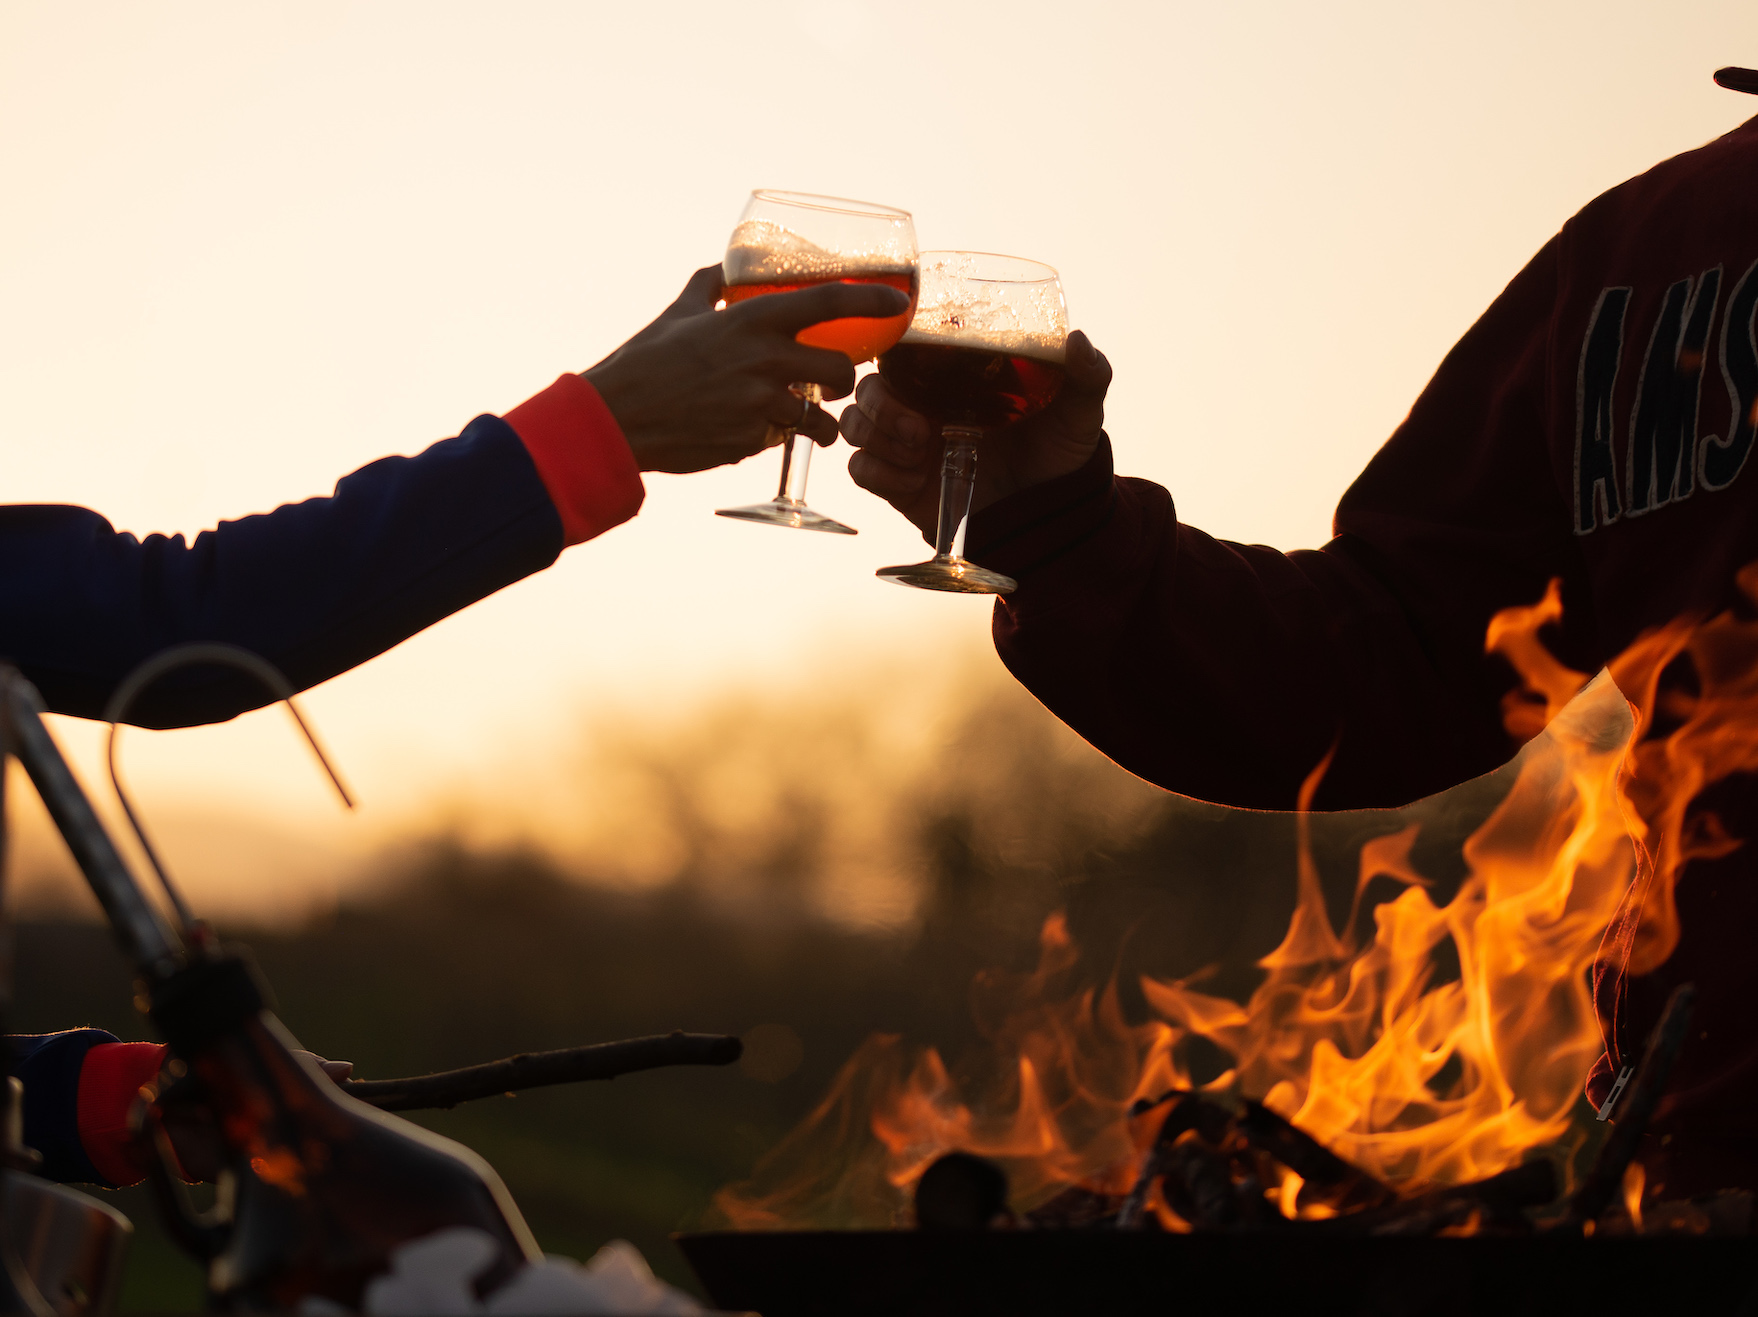
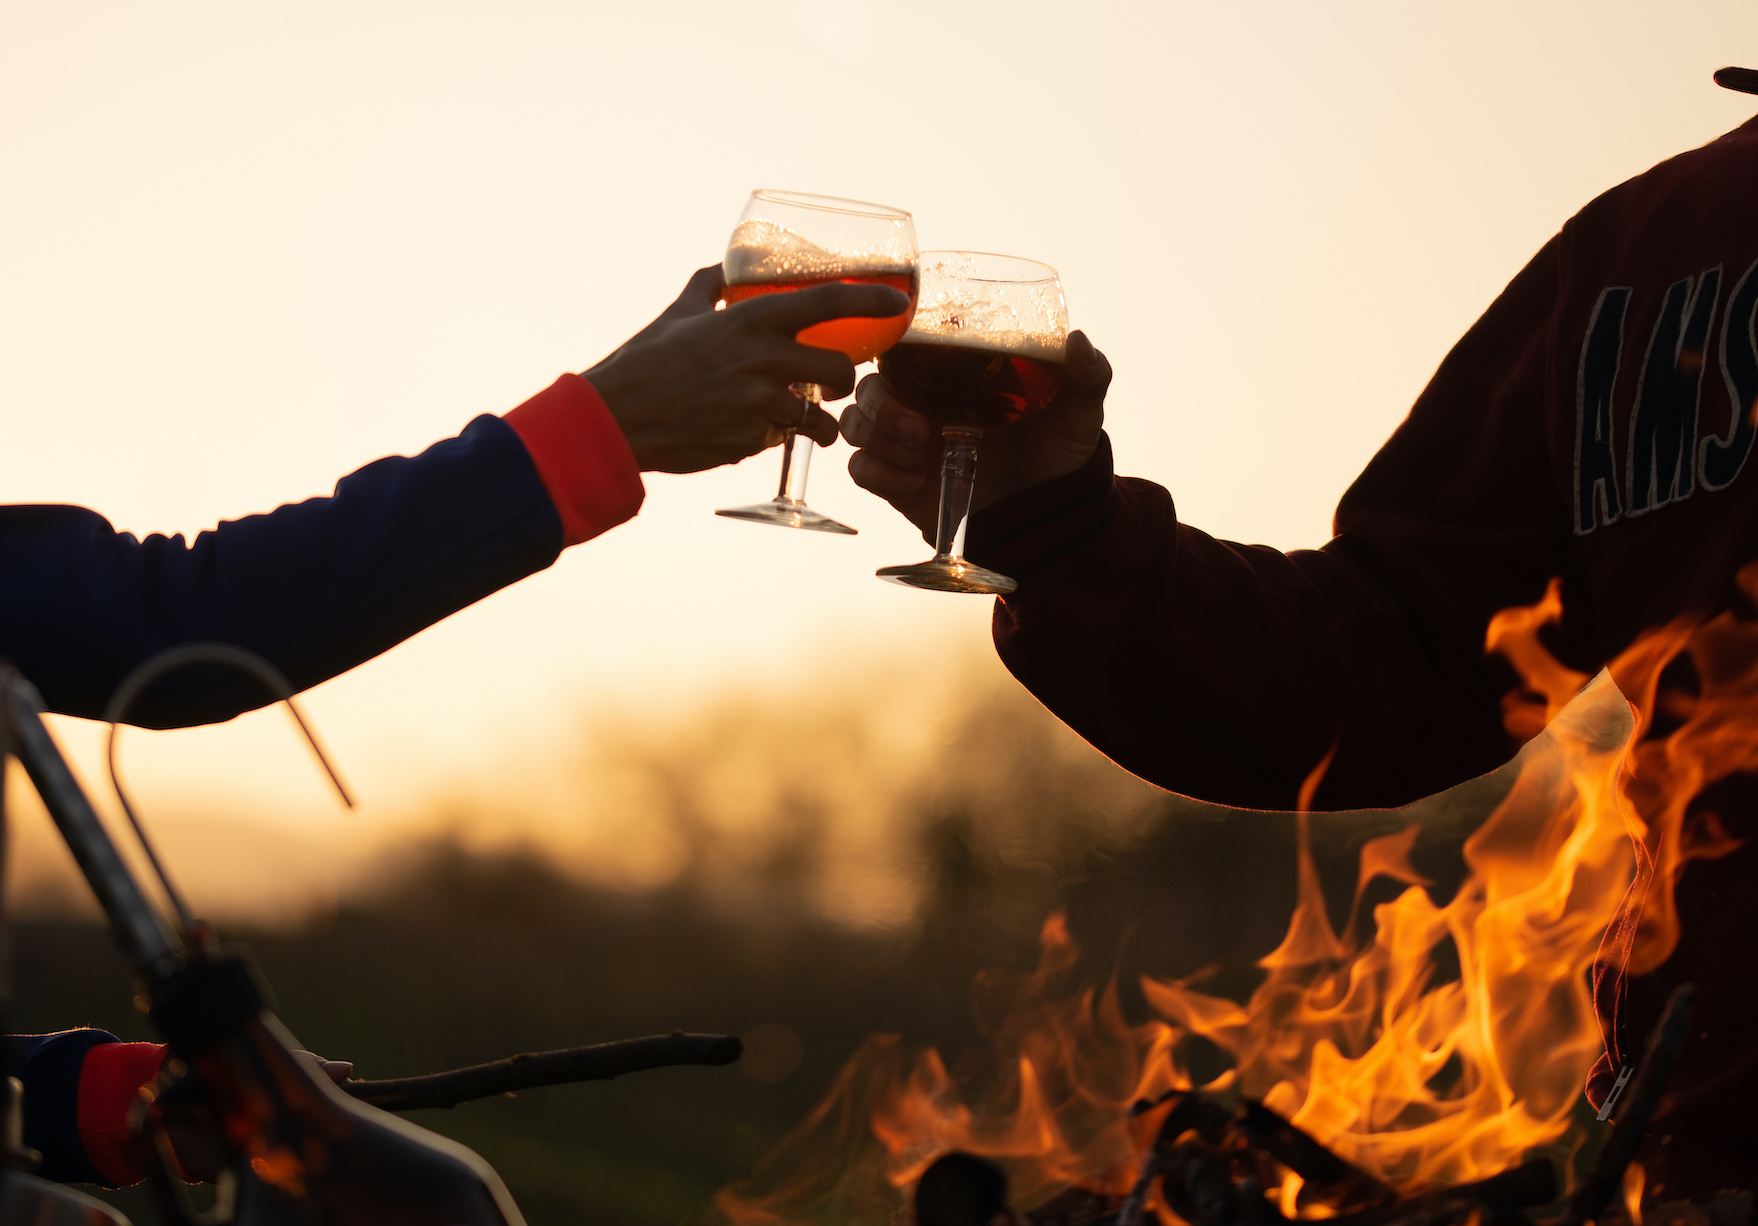
Readjust slider size and images

diff --git a/index.html b/index.html
@@ -82,7 +82,7 @@ Free for personal and commercial use under the CCA 3.0 license (html5up.net/lice
 				
 				<!-- Slider -->	
 					<section id="slider" class="wrapper alt style2">
-						<div class="bannerslide" data-height="1080" data-width="100%" data-slide-speed="900" data-autoslide="3000">
+						<div class="bannerslide" data-height="850" data-width="100%" data-slide-speed="900" data-autoslide="3000">
 							<img src="images/lifestyle01.jpg" class="slider">
 							<img src="images/lifestyle02.jpg" class="slider">
 							<img src="images/lifestyle03.jpg" class="slider">

diff --git a/es/index.html b/es/index.html
@@ -82,7 +82,7 @@
 				
 				<!-- Slider -->	
 					<section id="slider" class="wrapper alt style2">
-						<div class="bannerslide" data-height="1080" data-width="100%" data-slide-speed="900" data-autoslide="3000">
+						<div class="bannerslide" data-height="850" data-width="100%" data-slide-speed="900" data-autoslide="3000">
 							<img src="images/lifestyle01.jpg" class="slider">
 							<img src="images/lifestyle02.jpg" class="slider">
 							<img src="images/lifestyle03.jpg" class="slider">

diff --git a/fr/index.html b/fr/index.html
@@ -81,7 +81,7 @@
 				
 				<!-- Slider -->	
 					<section id="slider" class="wrapper alt style2">
-						<div class="bannerslide" data-height="1080" data-width="100%" data-slide-speed="900" data-autoslide="3000">
+						<div class="bannerslide" data-height="850" data-width="100%" data-slide-speed="900" data-autoslide="3000">
 							<img src="images/lifestyle01.jpg" class="slider">
 							<img src="images/lifestyle02.jpg" class="slider">
 							<img src="images/lifestyle03.jpg" class="slider">
